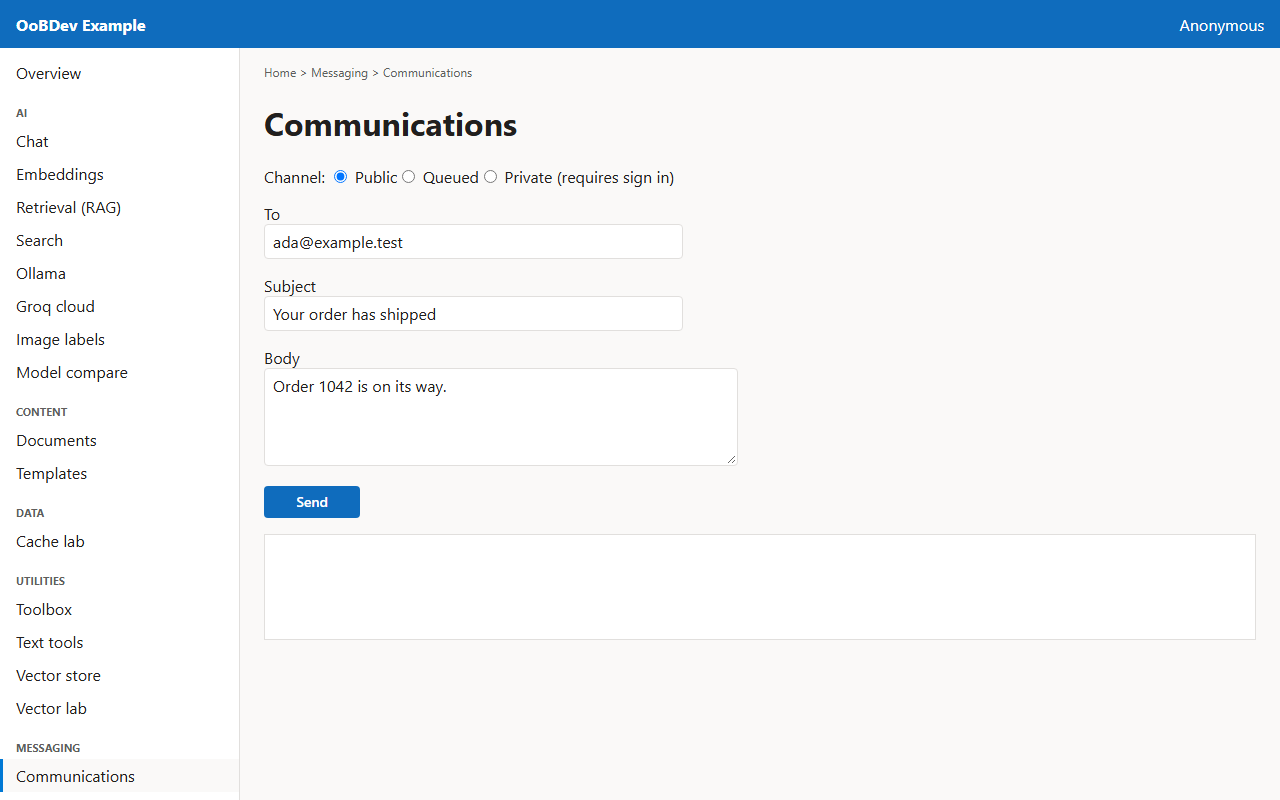
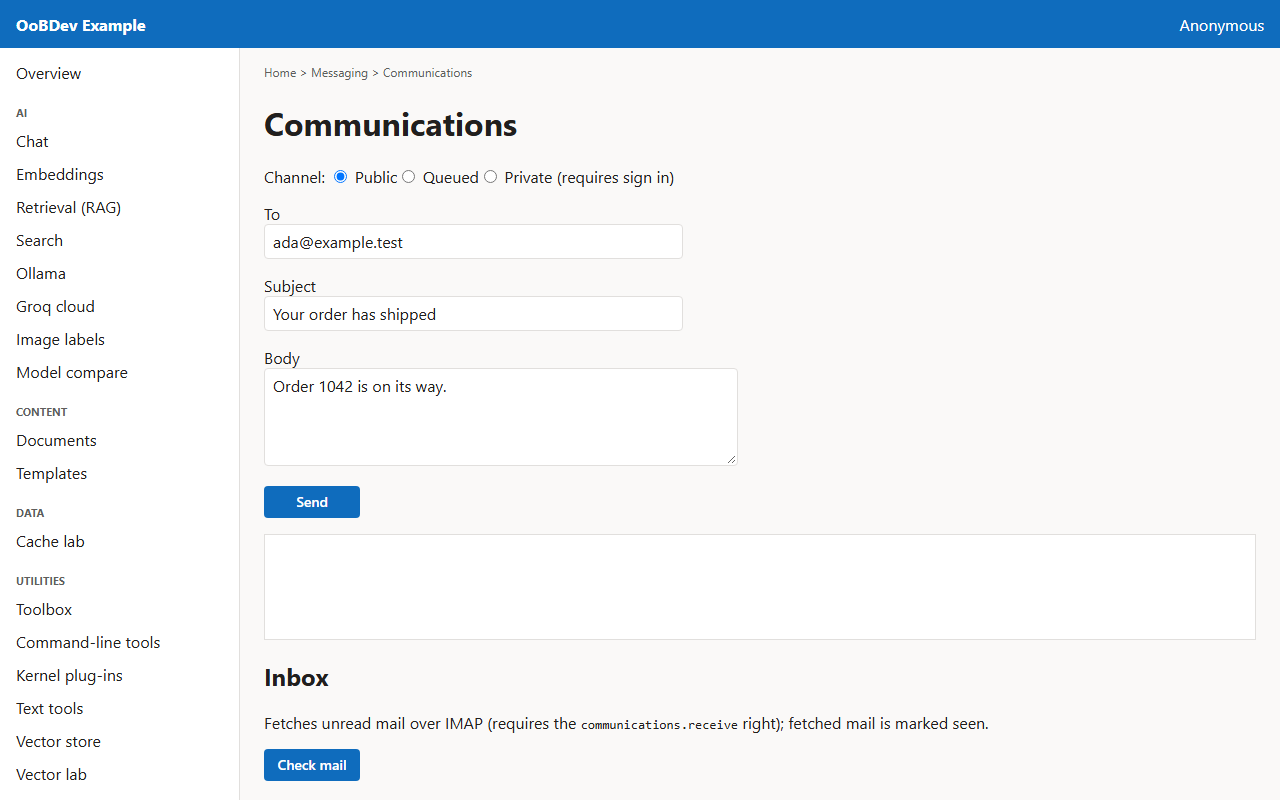
Example: inbox poll endpoint and Inbox section on the Communications page

diff --git a/src/Examples/OoBDev.Example.Web/e2e/mocks.ts b/src/Examples/OoBDev.Example.Web/e2e/mocks.ts
@@ -93,6 +93,7 @@ export async function mockApi(page: Page): Promise<void> {
     if (path === '/api/TextTemplate/Read') return json(route, { info: { name: 'order-shipped', file: 'order-shipped.html.hbs', templateContentType: 'text/x-handlebars-template', targetExtension: '.html' }, text: '<h1>Hello {{name}}</h1><p>Your order {{orderId}} has shipped.</p>' });
     if (path === '/api/TextTemplate/Preview') return text(route, '<h1>Hello Ada</h1><p>Your order 1042 has shipped.</p>');
     if (path.startsWith('/api/TextTemplate/Apply')) return text(route, '<h1>Hello Ada</h1><p>Your order 1042 has shipped.</p>');
+    if (path === '/api/Communications/inbox/poll') return json(route, [{ messageId: 'm-1', from: 'grace@example.test', to: ['ada@example.test'], subject: 'Re: Your order has shipped', preview: 'Thanks, it arrived today.', timestamp: '2026-11-20T09:30:00Z' }]);
     if (path.startsWith('/api/Communications/')) return text(route, 'Mail accepted');
     if (path === '/api/MessageQueueing/channels') return json(route, [{ channel: 'EmailMessageModel', provider: 'rabbit-mq', queueName: 'email-receive', hostName: 'localhost', receiverEnabled: false }, { channel: 'ExampleMessageProvider', provider: 'rabbit-mq', queueName: 'email-receive', hostName: 'localhost', receiverEnabled: false }]);
     if (path === '/api/MessageQueueing/received') return json(route, [{ receivedAt: '2026-11-09T12:00:00Z', correlationId: 'demo-1', message: '{"Input":"hello"}' }]);

diff --git a/src/Examples/OoBDev.Example.Web/src/pages/CommunicationsViewModel.ts b/src/Examples/OoBDev.Example.Web/src/pages/CommunicationsViewModel.ts
@@ -2,6 +2,8 @@ import { ref } from 'vue';
 import { Command } from '../core/command';
 import { http } from '../core/http';
 
+export interface InboxMessage { messageId: string; from?: string | null; to: string[]; subject: string; preview: string; timestamp: string }
+
 export type Channel = 'public' | 'queued' | 'private';
 
 export class CommunicationsViewModel {
@@ -11,6 +13,9 @@ export class CommunicationsViewModel {
   readonly body = ref('Message text');
   readonly result = ref('');
   readonly send = new SendEmailCommand(this);
+  readonly inbox = ref<InboxMessage[]>([]);
+  readonly polled = ref(false);
+  readonly poll = new PollInboxCommand(this);
 }
 
 export class SendEmailCommand extends Command {
@@ -23,5 +28,14 @@ export class SendEmailCommand extends Command {
       subject: this.vm.subject.value,
       textContent: this.vm.body.value,
     });
+  }
+}
+
+export class PollInboxCommand extends Command {
+  constructor(private readonly vm: CommunicationsViewModel) { super(); }
+  protected async run() {
+    const fetched = await http.postJson<InboxMessage[]>('/api/Communications/inbox/poll?max=10', {});
+    this.vm.inbox.value = [...fetched, ...this.vm.inbox.value];
+    this.vm.polled.value = true;
   }
 }

diff --git a/src/Examples/OoBDev.Example.Web/src/pages/CommunicationsPage.vue b/src/Examples/OoBDev.Example.Web/src/pages/CommunicationsPage.vue
@@ -18,4 +18,14 @@ const vm = new CommunicationsViewModel();
   <p><fluent-button appearance="primary" :disabled="!vm.send.canExecute.value" @click="vm.send.execute()">Send</fluent-button></p>
   <p v-if="vm.send.error.value" class="error">{{ vm.send.error.value }}</p>
   <pre class="result">{{ vm.result.value }}</pre>
+
+  <h2>Inbox</h2>
+  <p>Fetches unread mail over IMAP (requires the <code>communications.receive</code> right); fetched mail is marked seen.</p>
+  <p><fluent-button appearance="primary" :disabled="!vm.poll.canExecute.value" @click="vm.poll.execute()">Check mail</fluent-button></p>
+  <p v-if="vm.poll.error.value" class="error">{{ vm.poll.error.value }}</p>
+  <p v-else-if="vm.polled.value && vm.inbox.value.length === 0">No unread mail.</p>
+  <table v-if="vm.inbox.value.length" class="inbox">
+    <thead><tr><th>From</th><th>Subject</th><th>Preview</th></tr></thead>
+    <tbody><tr v-for="m in vm.inbox.value" :key="m.messageId"><td>{{ m.from }}</td><td>{{ m.subject }}</td><td>{{ m.preview }}</td></tr></tbody>
+  </table>
 </template>

diff --git a/src/Examples/OoBDev.Example.Web/src/pages/Communications.test.ts b/src/Examples/OoBDev.Example.Web/src/pages/Communications.test.ts
@@ -20,4 +20,15 @@ describe('communications commands', () => {
     expect(body).toMatchObject({ toAddresses: ['someone@example.test'], subject: 'Hello', textContent: 'Message text' });
     expect(vm.result.value).toBe('sent');
   });
+  it('poll_MailFetched_ListsNewestFirstAndMarksPolled', async () => {
+    const batch = (id: string) => [{ messageId: id, from: 'a@example.test', to: ['b@example.test'], subject: id, preview: 'p', timestamp: '2026-11-20T00:00:00Z' }];
+    const fetchMock = vi.fn(async (_p: string, _i: RequestInit) => new Response(JSON.stringify(batch('m2')), { status: 200 }));
+    vi.stubGlobal('fetch', fetchMock);
+    const vm = new CommunicationsViewModel();
+    vm.inbox.value = batch('m1');
+    await vm.poll.execute();
+    expect(fetchMock.mock.calls[0][0]).toBe('/api/Communications/inbox/poll?max=10');
+    expect(vm.inbox.value.map(m => m.messageId)).toEqual(['m2', 'm1']);
+    expect(vm.polled.value).toBe(true);
+  });
 });

diff --git a/src/Examples/OoBDev.Example.Web/e2e/journeys.ts b/src/Examples/OoBDev.Example.Web/e2e/journeys.ts
@@ -571,6 +571,15 @@ export const journeys: Journey[] = [
           await expect(page.locator('pre.result')).toContainText('accepted');
         },
       },
+      {
+        title: 'Check the inbox',
+        narrative: 'Check mail polls the inbox channel over IMAP and lists the unread messages; they are marked seen, so the next check returns only newer mail.',
+        expect: ['At least one message is listed with its sender and subject.'],
+        run: async page => {
+          await press(page, 'Check mail');
+          await expect(page.locator('table.inbox')).toContainText('@example.test');
+        },
+      },
     ],
   },
   {

diff --git a/src/Examples/OoBDev.Example.WebApi.Tests/CommunicationsControllerTests.cs b/src/Examples/OoBDev.Example.WebApi.Tests/CommunicationsControllerTests.cs
@@ -1,4 +1,6 @@
 using System;
+using System.Collections.Generic;
+using System.Linq;
 using System.Threading;
 using System.Threading.Tasks;
 using Microsoft.AspNetCore.Http;
@@ -10,6 +12,7 @@ using OoBDev.Communications.Models;
 using OoBDev.MessageQueueing;
 using OoBDev.TestUtilities;
 using OoBDev.WebApi.Controllers;
+using OoBDev.WebApi.Models;
 
 namespace OoBDev.Example.WebApi.Tests;
 
@@ -27,7 +30,7 @@ public class CommunicationsControllerTests
     {
         var send = new Mock<ISendService>();
         send.Setup(s => s.SendAsync("email", It.Is<IMessage>(m => m.MessageId == "ref-1"), null, It.IsAny<CancellationToken>())).ReturnsAsync(Result(true));
-        var controller = new CommunicationsController(send.Object, Mock.Of<IMessageQueueSender<EmailMessageModel>>());
+        var controller = new CommunicationsController(send.Object, Mock.Of<IMessageQueueSender<EmailMessageModel>>(), Mock.Of<IReceiveService>());
 
         var result = await controller.SendAnonymous(Model(), CancellationToken.None);
 
@@ -40,7 +43,7 @@ public class CommunicationsControllerTests
     {
         var send = new Mock<ISendService>();
         send.Setup(s => s.SendAsync(It.IsAny<string>(), It.IsAny<IMessage>(), null, It.IsAny<CancellationToken>())).ReturnsAsync(Result(false));
-        var controller = new CommunicationsController(send.Object, Mock.Of<IMessageQueueSender<EmailMessageModel>>());
+        var controller = new CommunicationsController(send.Object, Mock.Of<IMessageQueueSender<EmailMessageModel>>(), Mock.Of<IReceiveService>());
 
         var result = await controller.SendAuthorize(Model(), CancellationToken.None);
 
@@ -55,10 +58,68 @@ public class CommunicationsControllerTests
     {
         var queue = new Mock<IMessageQueueSender<EmailMessageModel>>();
         queue.Setup(q => q.SendAsync(It.IsAny<object>(), "ref-1", It.IsAny<string?>(), It.IsAny<string?>(), It.IsAny<int>())).ReturnsAsync("queued-1");
-        var controller = new CommunicationsController(Mock.Of<ISendService>(), queue.Object);
+        var controller = new CommunicationsController(Mock.Of<ISendService>(), queue.Object, Mock.Of<IReceiveService>());
 
         var id = await controller.Enqueue(Model());
 
         Assert.AreEqual("queued-1", id);
+    }
+    public required TestContext TestContext { get; set; }
+
+    [TestMethod]
+    [TestCategory(TestCategories.Unit)]
+    public async Task PollInbox_MailWaiting_ReturnsModelsWithShortPreview()
+    {
+        var receive = new Mock<IReceiveService>();
+        IReadOnlyList<IMessage> polled = [new EmailMessage { From = "a@example.test", To = ["b@example.test"], Subject = "Hello", TextContent = new string('x', 500) }];
+        receive.Setup(r => r.PollAsync("inbox", 5, It.IsAny<CancellationToken>())).ReturnsAsync(polled);
+        var controller = new CommunicationsController(Mock.Of<ISendService>(), Mock.Of<IMessageQueueSender<EmailMessageModel>>(), receive.Object);
+
+        var result = await controller.PollInbox(5, CancellationToken.None);
+
+        var item = result.Value!.Single();
+        TestContext.WriteLine($"Subject {item.Subject}, preview {item.Preview.Length} chars");
+        Assert.AreEqual("Hello", item.Subject);
+        Assert.AreEqual(160, item.Preview.Length);
+    }
+
+    [TestMethod]
+    [TestCategory(TestCategories.Unit)]
+    public async Task PollInbox_MaxOutOfRange_IsClamped()
+    {
+        var receive = new Mock<IReceiveService>();
+        receive.Setup(r => r.PollAsync("inbox", 50, It.IsAny<CancellationToken>())).ReturnsAsync([]);
+        var controller = new CommunicationsController(Mock.Of<ISendService>(), Mock.Of<IMessageQueueSender<EmailMessageModel>>(), receive.Object);
+
+        var result = await controller.PollInbox(999, CancellationToken.None);
+
+        Assert.IsEmpty(result.Value!);
+        receive.Verify(r => r.PollAsync("inbox", 50, It.IsAny<CancellationToken>()), Times.Once);
+    }
+
+    [TestMethod]
+    [TestCategory(TestCategories.Unit)]
+    public async Task PollInbox_ChannelMissing_ReturnsNotFoundProblem()
+    {
+        var receive = new Mock<IReceiveService>();
+        receive.Setup(r => r.PollAsync(It.IsAny<string>(), It.IsAny<int>(), It.IsAny<CancellationToken>())).ThrowsAsync(new NotSupportedException("no poll"));
+        var controller = new CommunicationsController(Mock.Of<ISendService>(), Mock.Of<IMessageQueueSender<EmailMessageModel>>(), receive.Object);
+
+        var result = await controller.PollInbox(10, CancellationToken.None);
+
+        Assert.AreEqual(StatusCodes.Status404NotFound, ((ObjectResult)result.Result!).StatusCode);
+    }
+
+    [TestMethod]
+    [TestCategory(TestCategories.Unit)]
+    public async Task PollInbox_ServerDown_ReturnsBadGatewayProblem()
+    {
+        var receive = new Mock<IReceiveService>();
+        receive.Setup(r => r.PollAsync(It.IsAny<string>(), It.IsAny<int>(), It.IsAny<CancellationToken>())).ThrowsAsync(new global::System.IO.IOException("refused"));
+        var controller = new CommunicationsController(Mock.Of<ISendService>(), Mock.Of<IMessageQueueSender<EmailMessageModel>>(), receive.Object);
+
+        var result = await controller.PollInbox(10, CancellationToken.None);
+
+        Assert.AreEqual(StatusCodes.Status502BadGateway, ((ObjectResult)result.Result!).StatusCode);
     }
 }

diff --git a/src/Examples/OoBDev.Example.WebApi/Controllers/CommunicationsController.cs b/src/Examples/OoBDev.Example.WebApi/Controllers/CommunicationsController.cs
@@ -5,21 +5,30 @@ using Microsoft.AspNetCore.Http;
 using Microsoft.AspNetCore.Mvc;
 using OoBDev.Communications.Abstractions;
 using OoBDev.Communications.Models;
+using OoBDev.AspNetCore.Mvc.Filters;
 using OoBDev.MessageQueueing;
+using OoBDev.WebApi.Models;
+using System;
+using System.Collections.Generic;
+using System.Linq;
 
 namespace OoBDev.WebApi.Controllers;
 
-/// <summary>Sends emails through the <c>email</c> channel, directly or through the message queue.</summary>
+/// <summary>Sends emails through the <c>email</c> channel, directly or through the message queue, and polls the <c>inbox</c> channel (IMAP).</summary>
 /// <param name="send">The send service.</param>
 /// <param name="queue">The message queue sender.</param>
+/// <param name="receive">The receive service that polls the inbox.</param>
 [ApiController]
 [Route("api/[controller]")]
 public class CommunicationsController(
     ISendService send,
-    IMessageQueueSender<EmailMessageModel> queue
+    IMessageQueueSender<EmailMessageModel> queue,
+    IReceiveService receive
     ) : ControllerBase
 {
     private const string EmailChannel = "email";
+    private const string InboxChannel = "inbox";
+    private const int PreviewLength = 160;
 
     /// <summary>Sends an email without requiring authentication.</summary>
     /// <param name="model">The email message model.</param>
@@ -50,6 +59,46 @@ public class CommunicationsController(
     [ProducesResponseType<ProblemDetails>(StatusCodes.Status502BadGateway)]
     public Task<ActionResult<SendResult>> SendAuthorize([FromBody] EmailMessageModel model, CancellationToken cancellationToken) =>
         SendAsync(model, cancellationToken);
+
+    /// <summary>Fetches unread mail from the <c>inbox</c> channel; the messages are handled and then marked seen, so a second poll returns only newer mail.</summary>
+    /// <param name="max">The most messages to fetch (1 to 50).</param>
+    /// <param name="cancellationToken">The request cancellation token.</param>
+    /// <returns>The fetched messages, or a problem when the inbox channel is missing or the mail server is unreachable.</returns>
+    [HttpPost("inbox/poll")]
+    [ApplicationRight("communications.receive")]
+    [ProducesResponseType<IReadOnlyList<InboxMessageModel>>(StatusCodes.Status200OK)]
+    [ProducesResponseType<ProblemDetails>(StatusCodes.Status404NotFound)]
+    [ProducesResponseType<ProblemDetails>(StatusCodes.Status502BadGateway)]
+    public async Task<ActionResult<IReadOnlyList<InboxMessageModel>>> PollInbox([FromQuery] int max = 10, CancellationToken cancellationToken = default)
+    {
+        try
+        {
+            var polled = await receive.PollAsync(InboxChannel, Math.Clamp(max, 1, 50), cancellationToken);
+            return polled.OfType<IEmailMessage>().Select(ToModel).ToList();
+        }
+        catch (Exception ex) when (ex is ChannelNotFoundException or ProviderNotFoundException or NotSupportedException)
+        {
+            return Problem(ex.Message, statusCode: StatusCodes.Status404NotFound, title: "Inbox channel not available");
+        }
+        catch (Exception ex) when (ex is not OperationCanceledException)
+        {
+            return Problem(ex.Message, statusCode: StatusCodes.Status502BadGateway, title: "Mail server not reachable");
+        }
+    }
+
+    private static InboxMessageModel ToModel(IEmailMessage message)
+    {
+        var text = message.TextContent ?? string.Empty;
+        return new InboxMessageModel
+        {
+            MessageId = message.MessageId,
+            From = message.From,
+            To = message.To,
+            Subject = message.Subject,
+            Preview = text.Length <= PreviewLength ? text : text[..PreviewLength],
+            Timestamp = message.Timestamp,
+        };
+    }
 
     private async Task<ActionResult<SendResult>> SendAsync(EmailMessageModel model, CancellationToken cancellationToken)
     {

diff --git a/src/Examples/OoBDev.Example.WebApi/Models/InboxMessageModel.cs b/src/Examples/OoBDev.Example.WebApi/Models/InboxMessageModel.cs
@@ -1,0 +1,25 @@
+using System;
+
+namespace OoBDev.WebApi.Models;
+
+/// <summary>One email the inbox poll fetched, reduced to what the inbox screen lists.</summary>
+public class InboxMessageModel
+{
+    /// <summary>Gets or sets the message id.</summary>
+    public required string MessageId { get; set; }
+
+    /// <summary>Gets or sets the sender address.</summary>
+    public string? From { get; set; }
+
+    /// <summary>Gets or sets the recipient addresses.</summary>
+    public string[] To { get; set; } = [];
+
+    /// <summary>Gets or sets the subject.</summary>
+    public string Subject { get; set; } = string.Empty;
+
+    /// <summary>Gets or sets the first characters of the text body.</summary>
+    public string Preview { get; set; } = string.Empty;
+
+    /// <summary>Gets or sets when the message was sent.</summary>
+    public DateTimeOffset Timestamp { get; set; }
+}

diff --git a/docs/design/example-ui/missing-screens.md b/docs/design/example-ui/missing-screens.md
@@ -22,7 +22,7 @@ Review of the example web app (`src/Examples/OoBDev.Example.Web`) and API agains
 | Data access and DacPac builder | `OoBDev.Data.Common`, MongoDB, `OoBDev.DacFx` | Read-only query runner, dacpac build and diff | Read-only guard design |
 | Semantic Kernel plug-in tester | `OoBDev.SemanticKernel` | Built 2026-11-17 as `/utilities/kernel`: plug-in function list and a direct invoke with text arguments (no model) | Controller (built) |
 | Vector store browser | Qdrant, OpenSearch, SQL store | Collection list, upsert, query | `IVectorStoreCollectionCatalog` (opt-in) exists with the Qdrant, SQL store and Azure AI Search implementations (2026-11-19); the screen is built 2026-11-19 (collection picker on `/utilities/vectors`, `GET api/VectorStore/collections`) |
-| Mail receive | MailKit IMAP | Inbox view | Decision in [the plan](plan.md) section 6 |
+| Mail receive | MailKit IMAP | Inbox view | Built 2026-11-20 as the Inbox section of `/messaging/communications` (`POST api/Communications/inbox/poll`, right `communications.receive`) |
 | Formats and pipelines | `OoBDev.System.IO.Pipelines`, Tar, BCD, bit tools | Built 2026-11-19 on the Toolbox page: the file inspector, the Morse, Roman, Base32 and packed BCD codecs and a pipeline builder (hex, base64, base32, gzip, SHA-256 and SHA-512, reverse) | Controller |
 | CLI tool catalog | DacPacCompiler, DocumentConverter, FileRagEngine, and the other CLI tools | Built 2026-11-16 as `/utilities/tools` (static list with a filter; no execution from the browser) | Static page |
 

diff --git a/docs/design/example-ui/plan.md b/docs/design/example-ui/plan.md
@@ -212,11 +212,11 @@ Checklist (tick as work lands):
   - [ ] Playwright flows for every screen against the integration stack
   - [ ] Accessibility pass (keyboard, contrast, screen reader labels)
   - [ ] Docs validation (`dotnet test src/Tools/OoBDev.Docs.Tests`) and README for the new project
-- [ ] **Phase 6: mail receive (lowest priority)**
-  - [ ] Review what exists in MailKit hosting and why `DisableMailKit = true`
-  - [ ] Design the four documents (requirements, architecture, API design, testing) for receive
-  - [ ] Complete the framework feature with tests, using the SMTP4Dev container
-  - [ ] Enable it in the example and add the inbox screen
+- [x] **Phase 6: mail receive (lowest priority)** built 2026-11-20
+  - [x] Framework side: `IPollableChannelProvider`, `ReceiveService.PollAsync` and the MailKit IMAP provider exist with unit tests; the example configures an `inbox` channel (`mailkit-imap`)
+  - [x] API: `POST api/Communications/inbox/poll?max=` (right `communications.receive`, 404 problem when the channel is missing or not pollable, 502 problem when the mail server fails); 4 Unit tests
+  - [x] Screen: an Inbox section on `/messaging/communications` (Check mail, list of sender, subject and preview), view-model test, mocked journey step and regenerated guide
+  - [ ] Live run against SMTP4Dev IMAP (port 143) not done; tracked in BACKLOG
 
 ## 6. Open questions
 

diff --git a/docs/changes/2026-11-20.md b/docs/changes/2026-11-20.md
@@ -135,3 +135,7 @@ The Example AppHost passes the audit connection string to the API. Live run (Key
 ## Right audit journey tolerates a live trail
 
 With `E2E_BASE_URL` set, the right-audit journey no longer expects the seeded `ann` and `bob` rows: it refreshes and expects an Allowed row (the screen's own check), then that the Forbidden filter hides Allowed. The mocked run passes; the live re-run against the AppHost was not repeated.
+
+## Mail receive in the example (plan Phase 6)
+
+`POST api/Communications/inbox/poll` on the example API polls the `inbox` channel (`ReceiveService.PollAsync`, IMAP) and returns sender, subject and a 160 character preview; right `communications.receive` (added to the admin role), problem details 404 (channel missing or not pollable) and 502 (mail server failed), `max` clamped to 1 to 50. The Communications page gained an Inbox section (Check mail, list) with a view-model test, a mocked journey step and a regenerated send-an-email guide. Tests: 4 new controller Unit tests (16 Unit tests green in the controller and right-coverage classes), vitest 3 green, the mocked journey green. Not run: a live poll against the SMTP4Dev IMAP port.

diff --git a/BACKLOG.md b/BACKLOG.md
@@ -44,7 +44,7 @@ Owner: all protocols and features of dev-term must exist here. Done means what d
   - [ ] The queue receive monitor shows nothing until a channel has its receiver enabled (all example channels set `DisableReceiver`). Example config only: enabling it makes the host need a running RabbitMQ at startup, so it stays off until the example gets a compose-backed profile (2026-11-19 decision: leave).
 
 - [x] **CQRS and event sourcing library** (decided 2026-11-11): built and covered (Abstractions, stores, relay, aggregates, projections, upcasting, snapshots, EF Core packages, CloudEvents mapper, pgmq adapter). The CloudEvents HTTP edge (`OoBDev.EventSourcing.Web`) was built 2026-11-16. Design and coverage: [CqrsEventSourcing](docs/design/CqrsEventSourcing/testing-strategy.md#coverage).
-
+- [ ] Live run of the example inbox poll against SMTP4Dev IMAP (port 143): send a mail, check mail, confirm it is listed once ([plan](docs/design/example-ui/plan.md) Phase 6).
 
 ## 5. Code quality backlog
 
